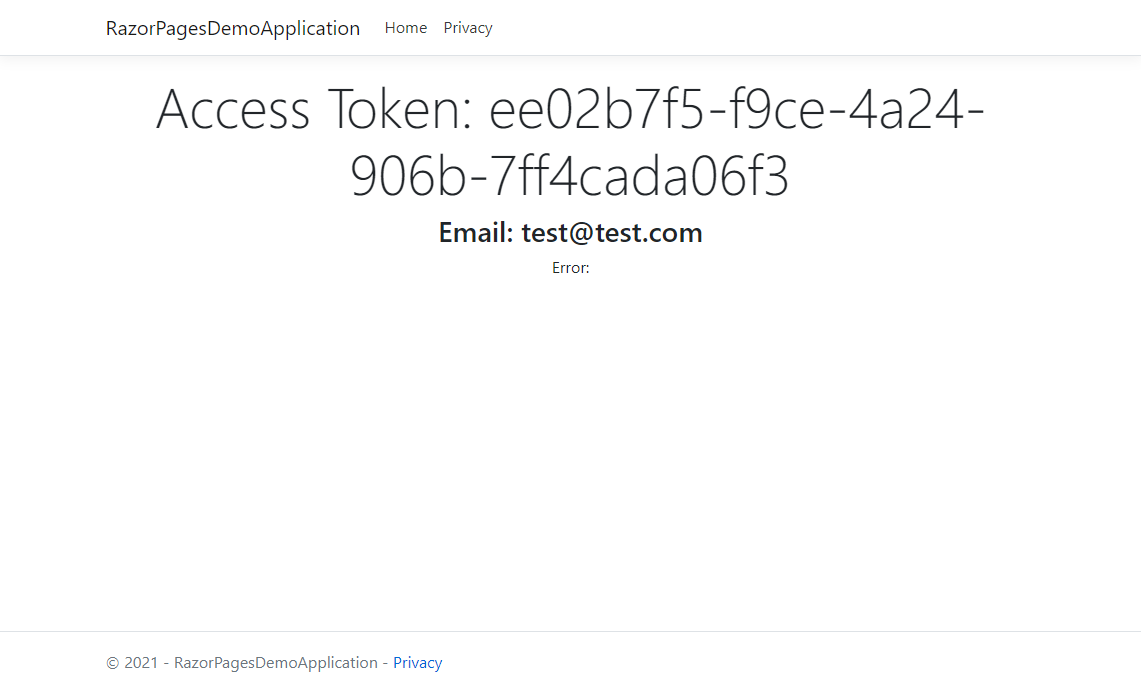
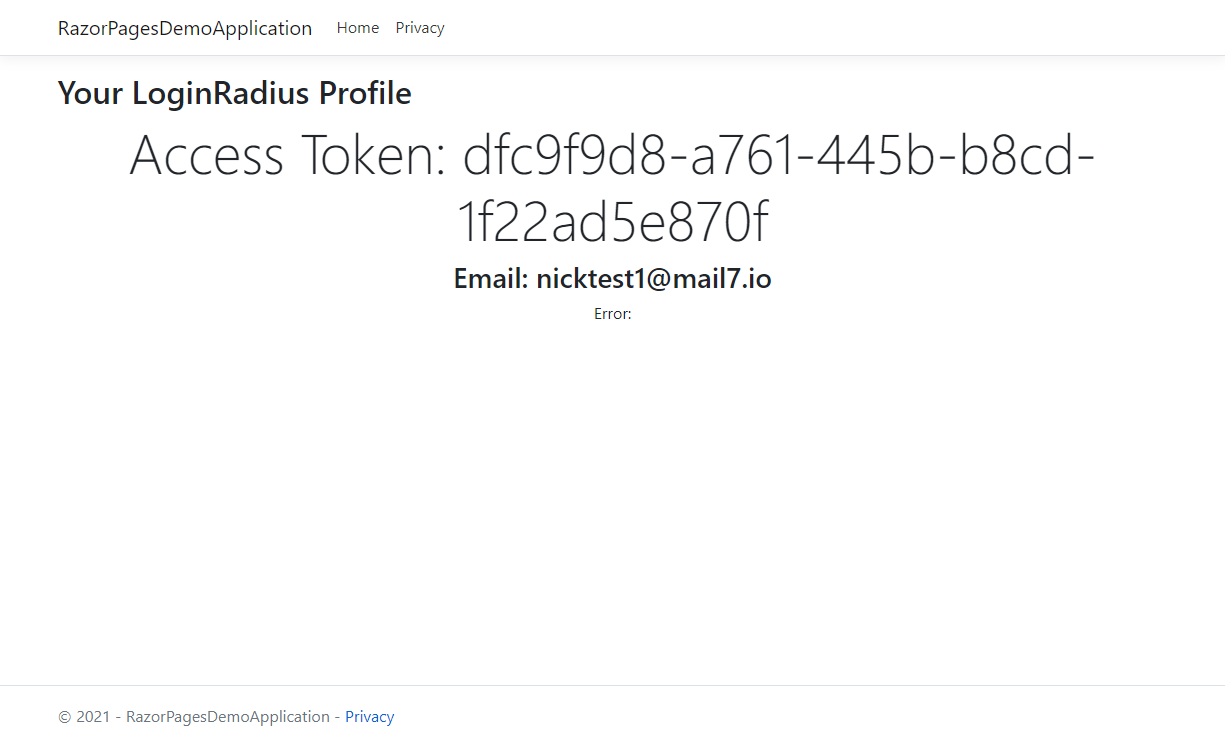
Add .netcore mvc tutorial

Changed region(s): [[0.0307, 0.0913, 0.8896, 0.4261], [0.0307, 0.0304, 0.4294, 0.0609], [0.0307, 0.9435, 0.3988, 0.9739]]

diff --git a/content/blog/get-started-dotnetcore-mvc/index.md b/content/blog/get-started-dotnetcore-mvc/index.md
@@ -1,6 +1,6 @@
-# Get Started - ASP&#46;NET Core Razor Pages
+# Get Started - ASP&#46;NET Core MVC
 
-The purpose of this tutorial is to help you with implementing LoginRadius user registration, log in and log out functionalities in your ASP&#46;NET Core Razor Pages web application.
+The purpose of this tutorial is to help you with implementing LoginRadius user registration, log in and log out functionalities in your ASP&#46;NET Core MVC web application.
 
 > You must have the &#46;NET 5.0 SDK installed or later.
 
@@ -26,9 +26,10 @@ In your LoginRadius Dashboard, navigate to **[Configuration > API Credentials](h
 
 ![alt_text](../../assets/blog-common/api-credentials.png "image_tooltip")
 
+
 ## SDK Installation
 
-In this tutorial, we assume that you are following the Razor Page design pattern in your web application. We will use the LoginRadius &#46;NET SDK to make API calls to LoginRadius.
+In this tutorial, we assume that you are following the MVC design pattern in your web application. We will use the LoginRadius &#46;NET SDK to make API calls to LoginRadius.
 
 - Run the following command in the NuGet Package Manager Console:
 ```
@@ -74,15 +75,32 @@ Navigate your Register or Login links or buttons to the following URLs:
 
 > return_url can be your website, frontend app, or backend server url where you are handling the access token. In the case of this tutorial, this would be the page in your web application where you will process the received access token and retrieve the LoginRadius user profile.
 
-In this example, we will create a Profile page to redirect to after authentication. 
+In this example, we will create a Profile page (with a controller and view) to redirect to after authentication.
 
-### Profile.cshtml
+### ProfileController.cs
 
-We add the following view under `/Pages/Profile.cshtml`.
+We add the following controller under `/Controllers/ProfileController.cs`.
+
+```csharp
+using Microsoft.AspNetCore.Mvc;
+
+namespace MVCDemoApplication.Controllers
+{
+    public class ProfileController : Controller
+    {
+        public IActionResult Index()
+        {
+            return View();
+        }
+    }
+}
+```
+
+### Index.cshtml
+
+We add the following view under `Views/Profile/Index.cshtml`.
 
 ```html
-@page
-@model RazorPagesDemoApplication.Pages.ProfileModel
 @{
     ViewData["Title"] = "Your LoginRadius Profile";
 }
@@ -90,32 +108,10 @@ We add the following view under `/Pages/Profile.cshtml`.
 <h2>Your LoginRadius Profile</h2>
 
 <div class="text-center">
-    <h1 class="display-4">Access Token: @Model.Token</h1>
+    <h1 class="display-4">Access Token: @ViewData["token"]</h1>
     <h3>Email: @ViewData["email"]</h3>
     <p>Error: @ViewData["error"]</p>
 </div>
-```
-
-### Profile.cshtml.cs
-
-We add the following page model under `/Pages/Profile.cshtml.cs`.
-
-```csharp
-using Microsoft.AspNetCore.Mvc;
-using Microsoft.AspNetCore.Mvc.RazorPages;
-
-namespace RazorPagesDemoApplication.Pages
-{
-    public class ProfileModel : PageModel
-    {
-        [BindProperty(SupportsGet = true)]
-        public string Token { get; set; }
-        public void OnGet()
-        {
-        }
-    }
-}
-
 ```
 
 ## Retrieve User Data using Access Token
@@ -126,66 +122,69 @@ namespace RazorPagesDemoApplication.Pages
 >`<Return URL>?token=745******-3e8e-****-b3**2-9c0******1e.`
 >
 
-Add the following namespaces in `/Pages/Profile.cshtml.cs` to allow us to work with the `GetProfileByAccessToken` SDK method easily:
+Add the following namespaces in `Controllers/ProfileController.cs` to allow us to work the the `GetProfileByAccessToken` SDK method easily:
 
 ```csharp
 using LoginRadiusSDK.V2.Api.Authentication;
 using LoginRadiusSDK.V2.Models.ResponseModels.UserProfile;
 ```
 
-Add the following API snippet to the `/Pages/Profile.cshtml.cs` `OnGet` method to retrieve the user profile using the received access token:
+Add the following API snippet to the `/Controllers/ProfileController.cs` `Index` method to retrieve user profile using the received access token:
 
 ```csharp
-if (Token == null)
+ViewData["token"] = token;
+
+if (token == null)
 {
     ViewData["error"] = "Expected token query parameter.";
-    return;
+    return View();
 }
 
-var apiResponse = new AuthenticationApi().GetProfileByAccessToken(Token);
-
+var apiResponse = new AuthenticationApi().GetProfileByAccessToken(token);
 if (apiResponse.RestException != null)
 {
     ViewData["error"] = apiResponse.RestException.Description;
-    return;
+    return View();
 }
 
 UserProfile profile = apiResponse.Response;
 ViewData["email"] = profile.Email[0].Value;
+
+return View();
 ```
 
-Your page model should look something like this:
+Your profile controller should look something like this:
 
 ```csharp
 using Microsoft.AspNetCore.Mvc;
-using Microsoft.AspNetCore.Mvc.RazorPages;
 using LoginRadiusSDK.V2.Api.Authentication;
 using LoginRadiusSDK.V2.Models.ResponseModels.UserProfile;
 
-namespace RazorPagesDemoApplication.Pages
+namespace MVCDemoApplication.Controllers
 {
-    public class ProfileModel : PageModel
+    public class ProfileController : Controller
     {
-        [BindProperty(SupportsGet = true)]
-        public string Token { get; set; }
-        public void OnGet()
+        public IActionResult Index(string token)
         {
-            if (Token == null)
+            ViewData["token"] = token;
+
+            if (token == null)
             {
                 ViewData["error"] = "Expected token query parameter.";
-                return;
+                return View();
             }
 
-            var apiResponse = new AuthenticationApi().GetProfileByAccessToken(Token);
-
+            var apiResponse = new AuthenticationApi().GetProfileByAccessToken(token);
             if (apiResponse.RestException != null)
             {
                 ViewData["error"] = apiResponse.RestException.Description;
-                return;
+                return View();
             }
 
             UserProfile profile = apiResponse.Response;
             ViewData["email"] = profile.Email[0].Value;
+
+            return View();
         }
     }
 }
@@ -194,13 +193,13 @@ namespace RazorPagesDemoApplication.Pages
 
 ## Run and See Result
 
-- Start your Razor Pages web application.
+- Start your MVC web application.
 
 - Open your Auth Page (IDX) registration URL `https://<LoginRadius APP Name>.hub.loginradius.com/auth.aspx?action=register&return_url=<Return URL>`. In our example, our return URL was `https://localhost:<PORT>/Profile`. It should display something similar to:
 
 ![alt_text](../../assets/blog-common/login-register.png "image_tooltip")
 
-- Register a user here and then log in. Upon successful login, it will redirect you to the page you have specified in the return url. In your page model, the LoginRadius SDK will return a user profile. The following displays the profile page described in our example:
+- Register a user here and then log in. Upon successful login, it will redirect you to the page you have specified in the return url. In your page controller, the LoginRadius SDK will return a user profile, which you can then pass to your view. The following displays the profile view described in our example:
 
 ![alt_text](images/example.png "image_tooltip")
 
